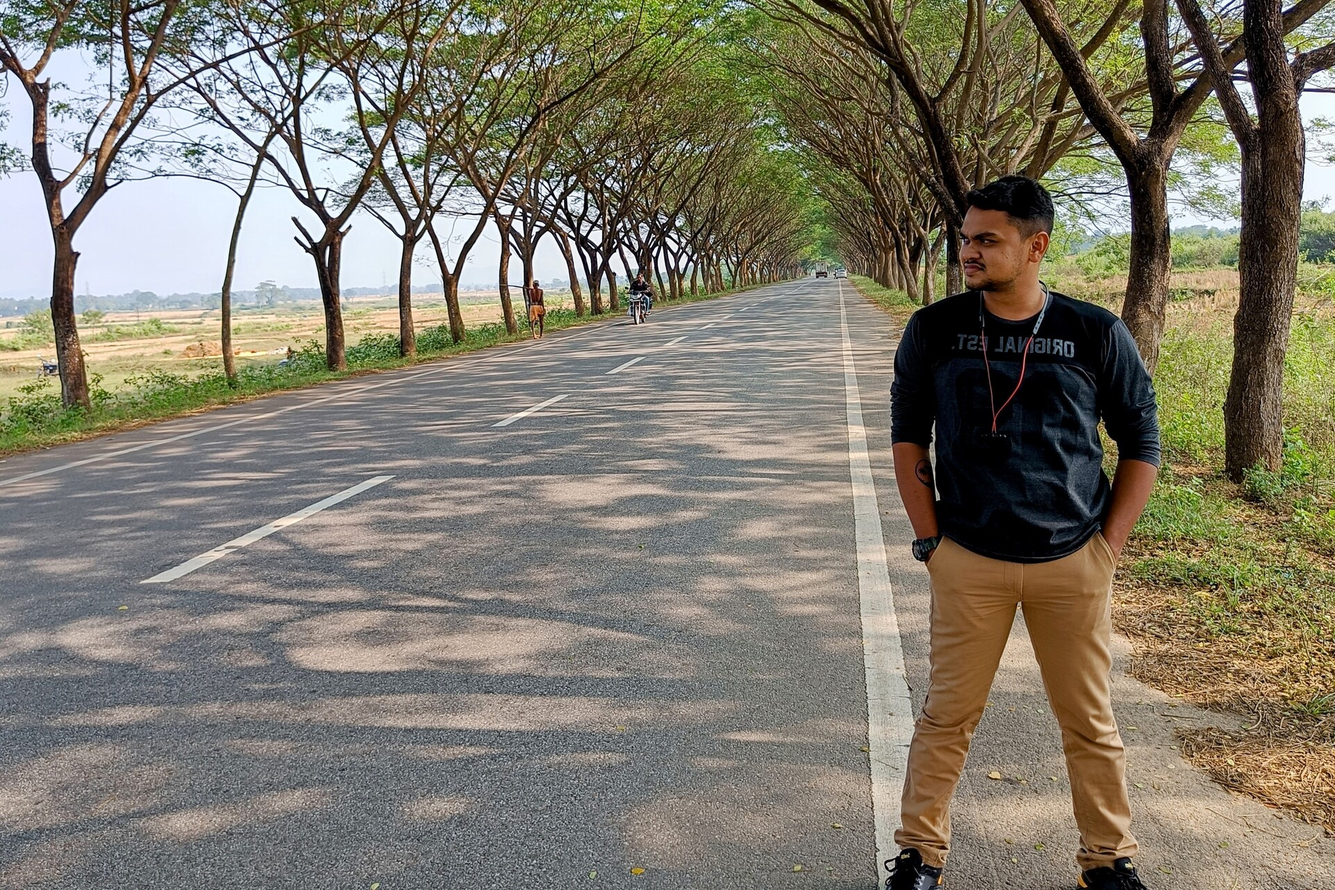
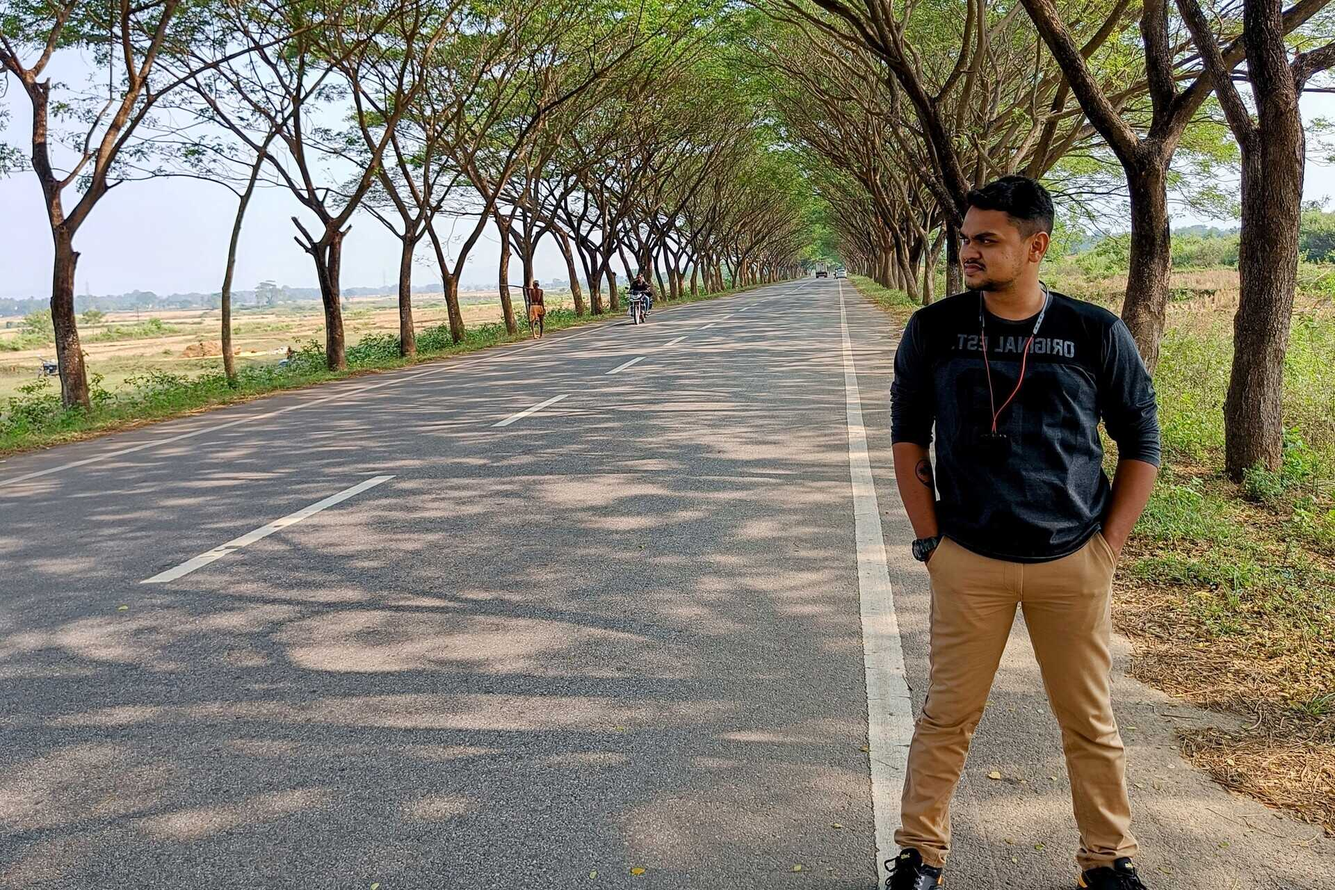
Updated Experience
- Updated experience
- Updated smaller image for faster page load
- Added new certificate (The Mountain Mover)

diff --git a/index.html b/index.html
@@ -124,13 +124,15 @@
       </div>
     </section><!-- End About Section -->
 
-    <!-- ======= Facts Section ======= -->
+<!-- Hidden for now
+
+    <!- - ======= Facts Section ======= - ->
     <section id="facts" class="facts">
       <div class="container">
 
         <div class="section-title">
           <h2>Facts</h2>
-<!--          <p>Some factual data about myself:</p> -->
+<!- -          <p>Some factual data about myself:</p> - ->
         </div>
 
         <div class="row no-gutters">
@@ -138,7 +140,7 @@
           <div class="col-lg-3 col-md-6 d-md-flex align-items-md-stretch" data-aos="fade-up" data-aos-delay="100">
             <div class="count-box">
               <i class="bi bi-journal-richtext"></i>
-              <span data-purecounter-start="0" data-purecounter-end="3" data-purecounter-duration="1" class="purecounter satis"></span>
+              <span data-purecounter-start="0" data-purecounter-end="5" data-purecounter-duration="1" class="purecounter satis"></span>
               <p><strong>Years</strong> of total experience</p>
             </div>
           </div>
@@ -170,8 +172,8 @@
         </div>
 
       </div>
-    </section><!-- End Facts Section -->
-
+    </section><!- - End Facts Section - ->
+-->
     <!-- ======= Skills Section ======= -->
     <section id="skills" class="skills section-bg">
       <div class="container">
@@ -325,7 +327,12 @@
               <h5>June 2022 - Present</h5>
               <p><em>Tata Consultancy Services, Bangalore, IN </em></p>
               <ul>
-                <li>At TCS, I am working as a subject matter expert while working with CyberArk, Azure Active Directory, Exchange Control Panel for managing user accounts, generating admin credentials for computers using LAPS, creation/deletion of mailboxes, providing access  to shared mailboxes, granting/removing access to shared folders, granting access to licensed applications and so on. Additional responsibilities include creating new or auditing existing Knowledge Base articles and providing training to new hires in the team.</li>
+                <li>Improved team's response time by 15% through the implementation and monitoring of customized ServiceNow dashboards, leading to increased efficiency and customer satisfaction.</li>
+                <li>Enhanced process standardization and alignment by holding weekly catchup meetings with client-side Regional Heads, resulting in a decrease in operational errors and improved overall service delivery.</li>
+                <li>Streamlined process and improved rapport with other support teams by organizing meetings with respective Service Owners/Managers.</li>
+                <li>Increased knowledge base article usage by 25% through meticulous review and modification, ensuring more reliable information for team use.</li>
+                <li>Enhanced knowledge sharing and collaboration through regular Team Huddles, resulting in improved communication and alignment on best practices.</li>
+                <li>Perform Root Cause Analysis (RCA) on Customer Dissatisfactions, escalation tickets as well as tickets that miss meeting metrics such as FLR (First Level Resolution) or FCR (First Call Resolution).</li>
               </ul>
             </div>
             <div class="resume-item">
@@ -333,12 +340,9 @@
               <h5>Sept 2019 - May 2022</h5>
               <p><em>DXC Technology, Bangalore, IN</em></p>
               <ul>
-                <li>Managed upto 12 projects/clients at a given time</li>
-                <li>Managed upto 25 team members while serving as a Subject Matter Expert and a backup of the Team Leader while being responsible for training all new joiners on the unique SOPs of every single client we supported</li>
-                <li>Worked with the Knowledge Management team for improvement to existing processes and/or creation or new Knowledge articles</li>
-                <li>Led the Knowledge Transfer of two projects and conducted train-the-trainer sessions for the new support team</li>
-                <li>Regularly audited calls and tickets created by team members and conducted feedback sessions as well as implemented Personal Improvement Plans for some</li>
-                <li>Actively worked with Active Directory for user account management, group management and BitLocker Recovery</li>
+                <li>Supported 12 different clients simultaneously while working in a 24*7 work environment.</li>
+                <li>Responsible for Knowledge Transfer of two projects and conducted train-the-trainer sessions for the new support teams.</li>
+                <li>Regularly audited calls and tickets created by team members and conducted feedback sessions as well as implemented Personal Improvement Plans for some.</li>
               </ul>
             </div>
             <div class="resume-item">
@@ -346,9 +350,9 @@
               <h5>Jan 2019 - Aug 2019</h5>
               <p><em>Aegis Customer Support Services Pvt. Ltd., Bangalore, IN</em></p>
               <ul>
-                <li>Worked as a Verifications Researcher for HireRight and conducted Employment and Education Background Verification for US Clients</li>
-                <li>Received, recorded and addressed incoming and outgoing communication via telephone and email</li>
-                <li>Implemented company policies, technical procedures and standards for preserving integrity and security of data, reports and access</li>
+                <li>Worked as a Verifications Researcher for HireRight and conducted Employment and Education Background Verification for US Clients.</li>
+                <li>Received, recorded and addressed incoming and outgoing communication via telephone and email.</li>
+                <li>Implemented company policies, technical procedures and standards for preserving integrity and security of data, reports and access.</li>
               </ul>
             </div>
           </div>
@@ -390,9 +394,19 @@
 
           <div class="col-lg-4 col-md-6 portfolio-item filter-awards">
             <div class="portfolio-wrap">
+              <img src="assets/img/portfolio/June23.jpg" class="img-fluid" alt="">
+              <div class="portfolio-links">
+                <a href="assets/img/portfolio/June23_big.jpg" data-gallery="portfolioGallery" class="portfolio-lightbox" title="Received the Mountain Mover Certificate of Appreciation in June 2023 for having the highest customer satisfaction globally"><i class="bx bx-plus"></i></a>
+                <!-- <a href="portfolio-details.html" title="More Details"><i class="bx bx-link"></i></a> -->
+              </div>
+            </div>
+          </div>
+
+          <div class="col-lg-4 col-md-6 portfolio-item filter-awards">
+            <div class="portfolio-wrap">
               <img src="assets/img/portfolio/Dec22.jpg" class="img-fluid" alt="">
               <div class="portfolio-links">
-                <a href="assets/img/portfolio/Dec22_big.jpg" data-gallery="portfolioGallery" class="portfolio-lightbox" title="Received the Certificate of Appreciation for Outstanding Performance while working as the Business Process Lead for Adecco Group, TCS"><i class="bx bx-plus"></i></a>
+                <a href="assets/img/portfolio/Dec22_big.jpg" data-gallery="portfolioGallery" class="portfolio-lightbox" title="Received the Certificate of Appreciation in December 2022 for Outstanding Performance while working as the Business Process Lead for Adecco Group, TCS"><i class="bx bx-plus"></i></a>
                 <!-- <a href="portfolio-details.html" title="More Details"><i class="bx bx-link"></i></a> -->
               </div>
             </div>
@@ -422,7 +436,7 @@
             <div class="portfolio-wrap">
               <img src="assets/img/portfolio/Dec20.jpg" class="img-fluid" alt="">
               <div class="portfolio-links">
-                <a href="assets/img/portfolio/Dec20_big.jpg" data-gallery="portfolioGallery" class="portfolio-lightbox" title="For being the Top Performer of December 2020"><i class="bx bx-plus"></i></a>
+                <a href="assets/img/portfolio/Dec20_big.jpg" data-gallery="portfolioGallery" class="portfolio-lightbox" title="For being the Top Performer of Dec 2020"><i class="bx bx-plus"></i></a>
                 <!-- <a href="portfolio-details.html" title="More Details"><i class="bx bx-link"></i></a> -->
               </div>
             </div>
